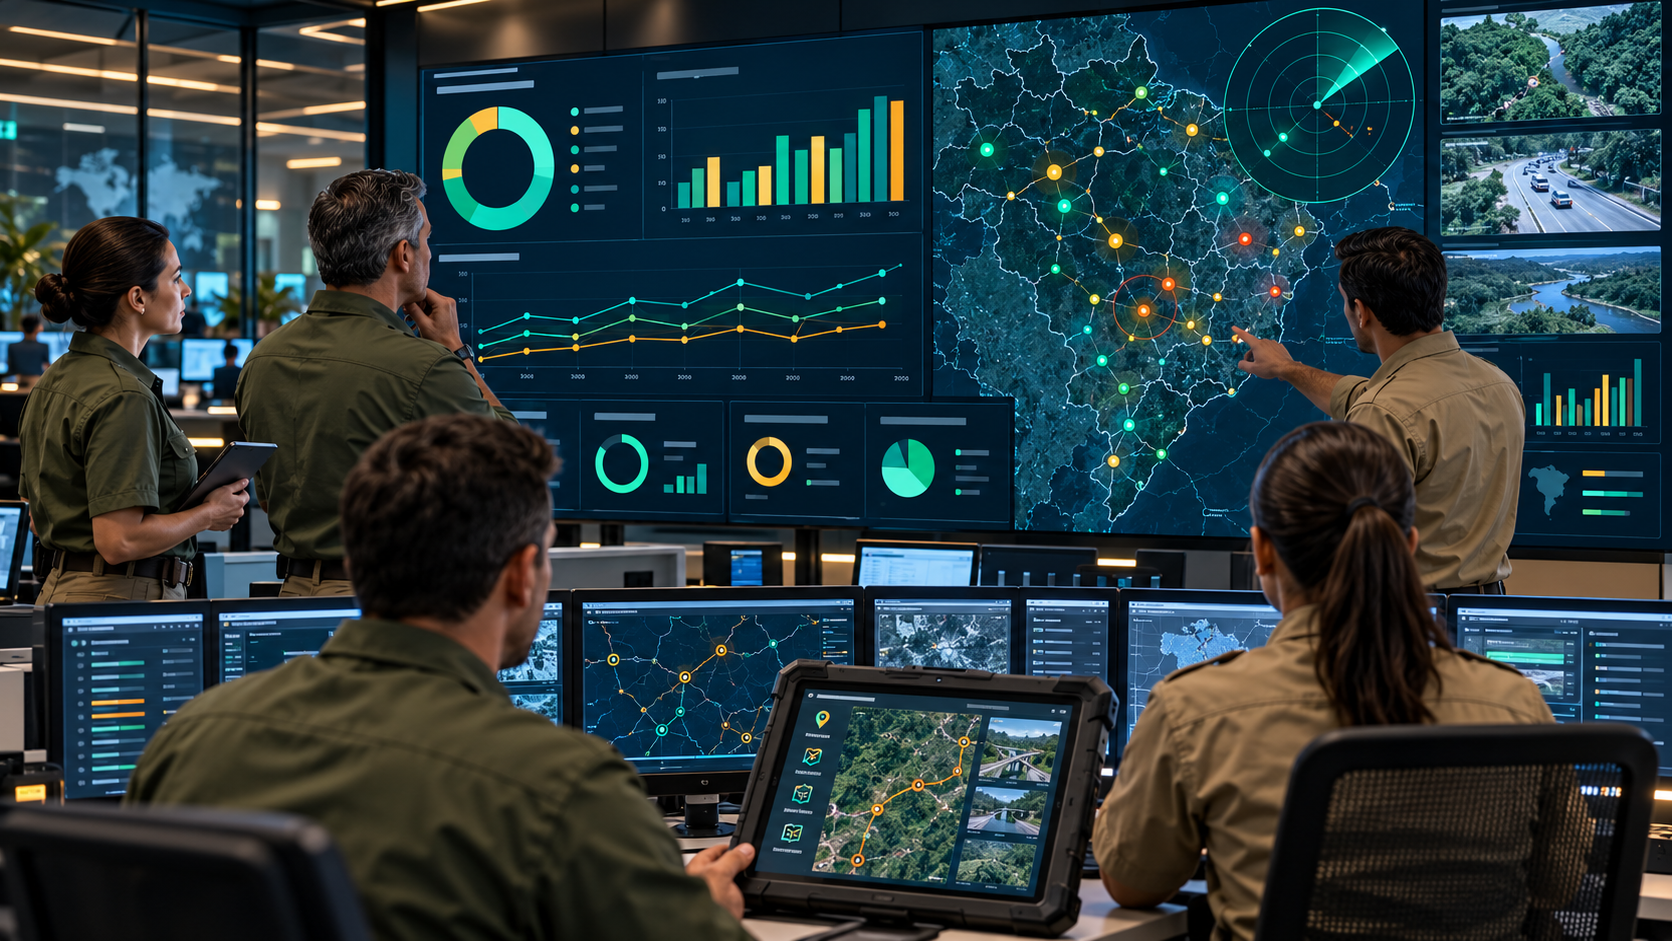
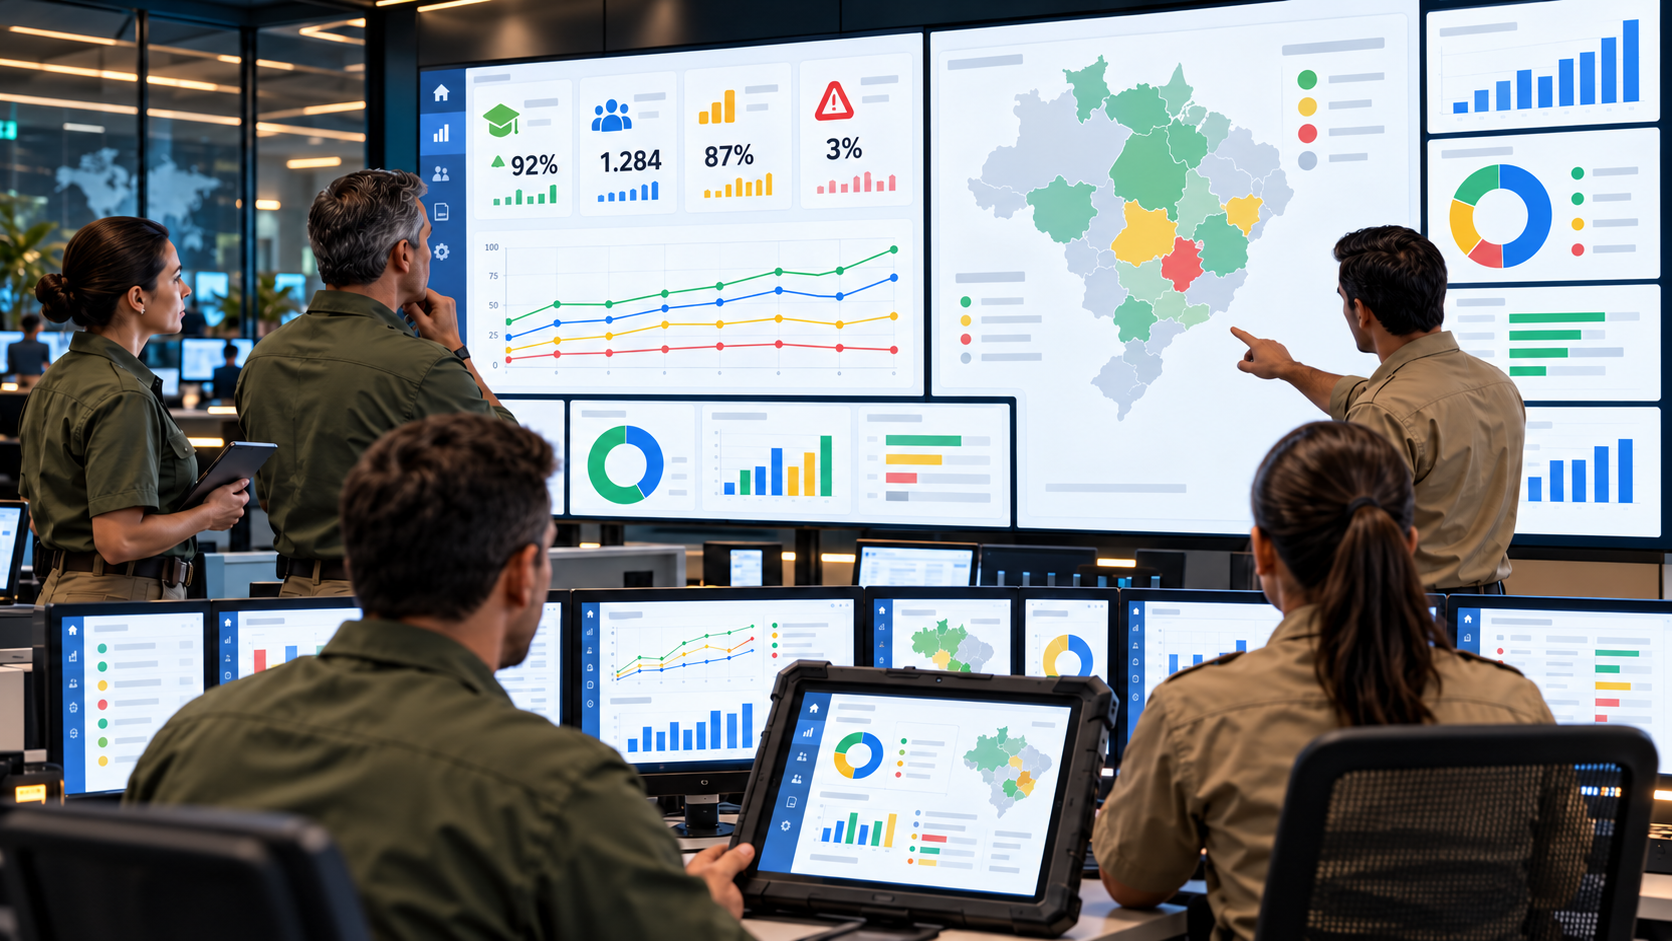
fix: update image descriptions for clarity and edit images for consistency

diff --git a/docs/index.html b/docs/index.html
@@ -110,8 +110,8 @@
             <div class="container">
                 <div class="section-intro reveal"><p class="eyebrow dark">O produto</p><h2>Dois olhares.<br>Uma mesma jornada.</h2><p>Um núcleo estrutura o ciclo e os processos. O outro transforma esse conjunto em visão gerencial, acompanhamento e ação móvel. Juntos, eliminam ilhas de informação sem simplificar demais a realidade.</p></div>
                 <div class="product-duo">
-                    <article class="product-card atalaia reveal"><figure class="product-visual"><img src="assets/media/produto-nucleo-gestao.png" alt="Centro de planejamento demonstrativo acompanhando ciclos e cobertura nacional" width="1672" height="941" loading="lazy"><span class="product-index">01</span></figure><div class="product-content"><p class="eyebrow">Núcleo de gestão</p><h3>Estrutura cada etapa.</h3><p>Organiza ciclos, participantes, avaliações e relatórios com regras e permissões consistentes.</p><ul><li>Gestão do ciclo</li><li>Validação e consolidação</li><li>Rastreabilidade</li></ul></div></article>
-                    <article class="product-card gaviao reveal"><figure class="product-visual"><img src="assets/media/produto-nucleo-decisao.png" alt="Centro de acompanhamento demonstrativo com painéis analíticos e operação móvel" width="1672" height="941" loading="lazy"><span class="product-index">02</span></figure><div class="product-content"><p class="eyebrow">Núcleo de decisão</p><h3>Transforma dados em contexto.</h3><p>Conecta indicadores, registros e operação móvel para revelar tendências sem perder a origem do dado.</p><ul><li>Visão comparável</li><li>Acompanhamento distribuído</li><li>Operação online e offline</li></ul></div></article>
+                    <article class="product-card atalaia reveal"><figure class="product-visual"><img src="assets/media/produto-nucleo-gestao.png?v=2" alt="Centro de planejamento demonstrativo com painel claro de indicadores educacionais e mapa do Brasil" width="1672" height="941" loading="lazy"><span class="product-index">01</span></figure><div class="product-content"><p class="eyebrow">Núcleo de gestão</p><h3>Estrutura cada etapa.</h3><p>Organiza ciclos, participantes, avaliações e relatórios com regras e permissões consistentes.</p><ul><li>Gestão do ciclo</li><li>Validação e consolidação</li><li>Rastreabilidade</li></ul></div></article>
+                    <article class="product-card gaviao reveal"><figure class="product-visual"><img src="assets/media/produto-nucleo-decisao.png?v=2" alt="Centro de acompanhamento demonstrativo com mapas e painéis claros de apoio à decisão" width="1672" height="941" loading="lazy"><span class="product-index">02</span></figure><div class="product-content"><p class="eyebrow">Núcleo de decisão</p><h3>Transforma dados em contexto.</h3><p>Conecta indicadores, registros e operação móvel para revelar tendências sem perder a origem do dado.</p><ul><li>Visão comparável</li><li>Acompanhamento distribuído</li><li>Operação online e offline</li></ul></div></article>
                 </div>
             </div>
         </section>

diff --git a/docs/assets/media/README.md b/docs/assets/media/README.md
@@ -16,8 +16,8 @@ Elas não reproduzem ambientes, pessoas, sistemas, marcas ou dados reais.
 | `jornada-entrada-distribuida.png` | Entrada da jornada da informação | Edição autoral com OpenAI ImageGen em 21/10/2026 | Pessoas sintéticas em uniforme genérico sem insígnias, posto tecnológico e marca neutros; sem arma, organização ou identidade real |
 | `jornada-cobertura-nacional.png` | Validação e consolidação em escala nacional | Edição autoral com OpenAI ImageGen em 21/10/2026 | Painel claro inspirado na linguagem visual do produto, com mapa público estilizado; sem unidades, siglas internas ou dados pessoais |
 | `jornada-decisao-verificavel.png` | Decisão apoiada por informação verificável | Edição autoral com OpenAI ImageGen em 21/10/2026 | Fluxo claro e genérico de captura, validação, consolidação e decisão; sem brasão, coordenada real, sistema real ou identificação institucional |
-| `produto-nucleo-gestao.png` | Núcleo de gestão do produto | Gerada com OpenAI ImageGen em 21/10/2026 | Centro de planejamento e pessoas sintéticas em uniforme genérico; sem arma, insígnia, organização, unidade ou dado real |
-| `produto-nucleo-decisao.png` | Núcleo de decisão do produto | Gerada com OpenAI ImageGen em 21/10/2026 | Centro de acompanhamento e pessoas sintéticas em uniforme genérico; sem arma, insígnia, organização, unidade ou dado real |
+| `produto-nucleo-gestao.png` | Núcleo de gestão do produto | Gerada e editada com OpenAI ImageGen em 22/10/2026 | Centro de planejamento sintético; monitores com painéis educacionais claros, mapa e dados genéricos; sem arma, insígnia, organização, unidade ou dado real |
+| `produto-nucleo-decisao.png` | Núcleo de decisão do produto | Gerada e editada com OpenAI ImageGen em 22/10/2026 | Centro de acompanhamento sintético; monitores com mapas e painéis claros de apoio à decisão; sem arma, insígnia, organização, unidade ou dado real |
 
 ## Política
 
